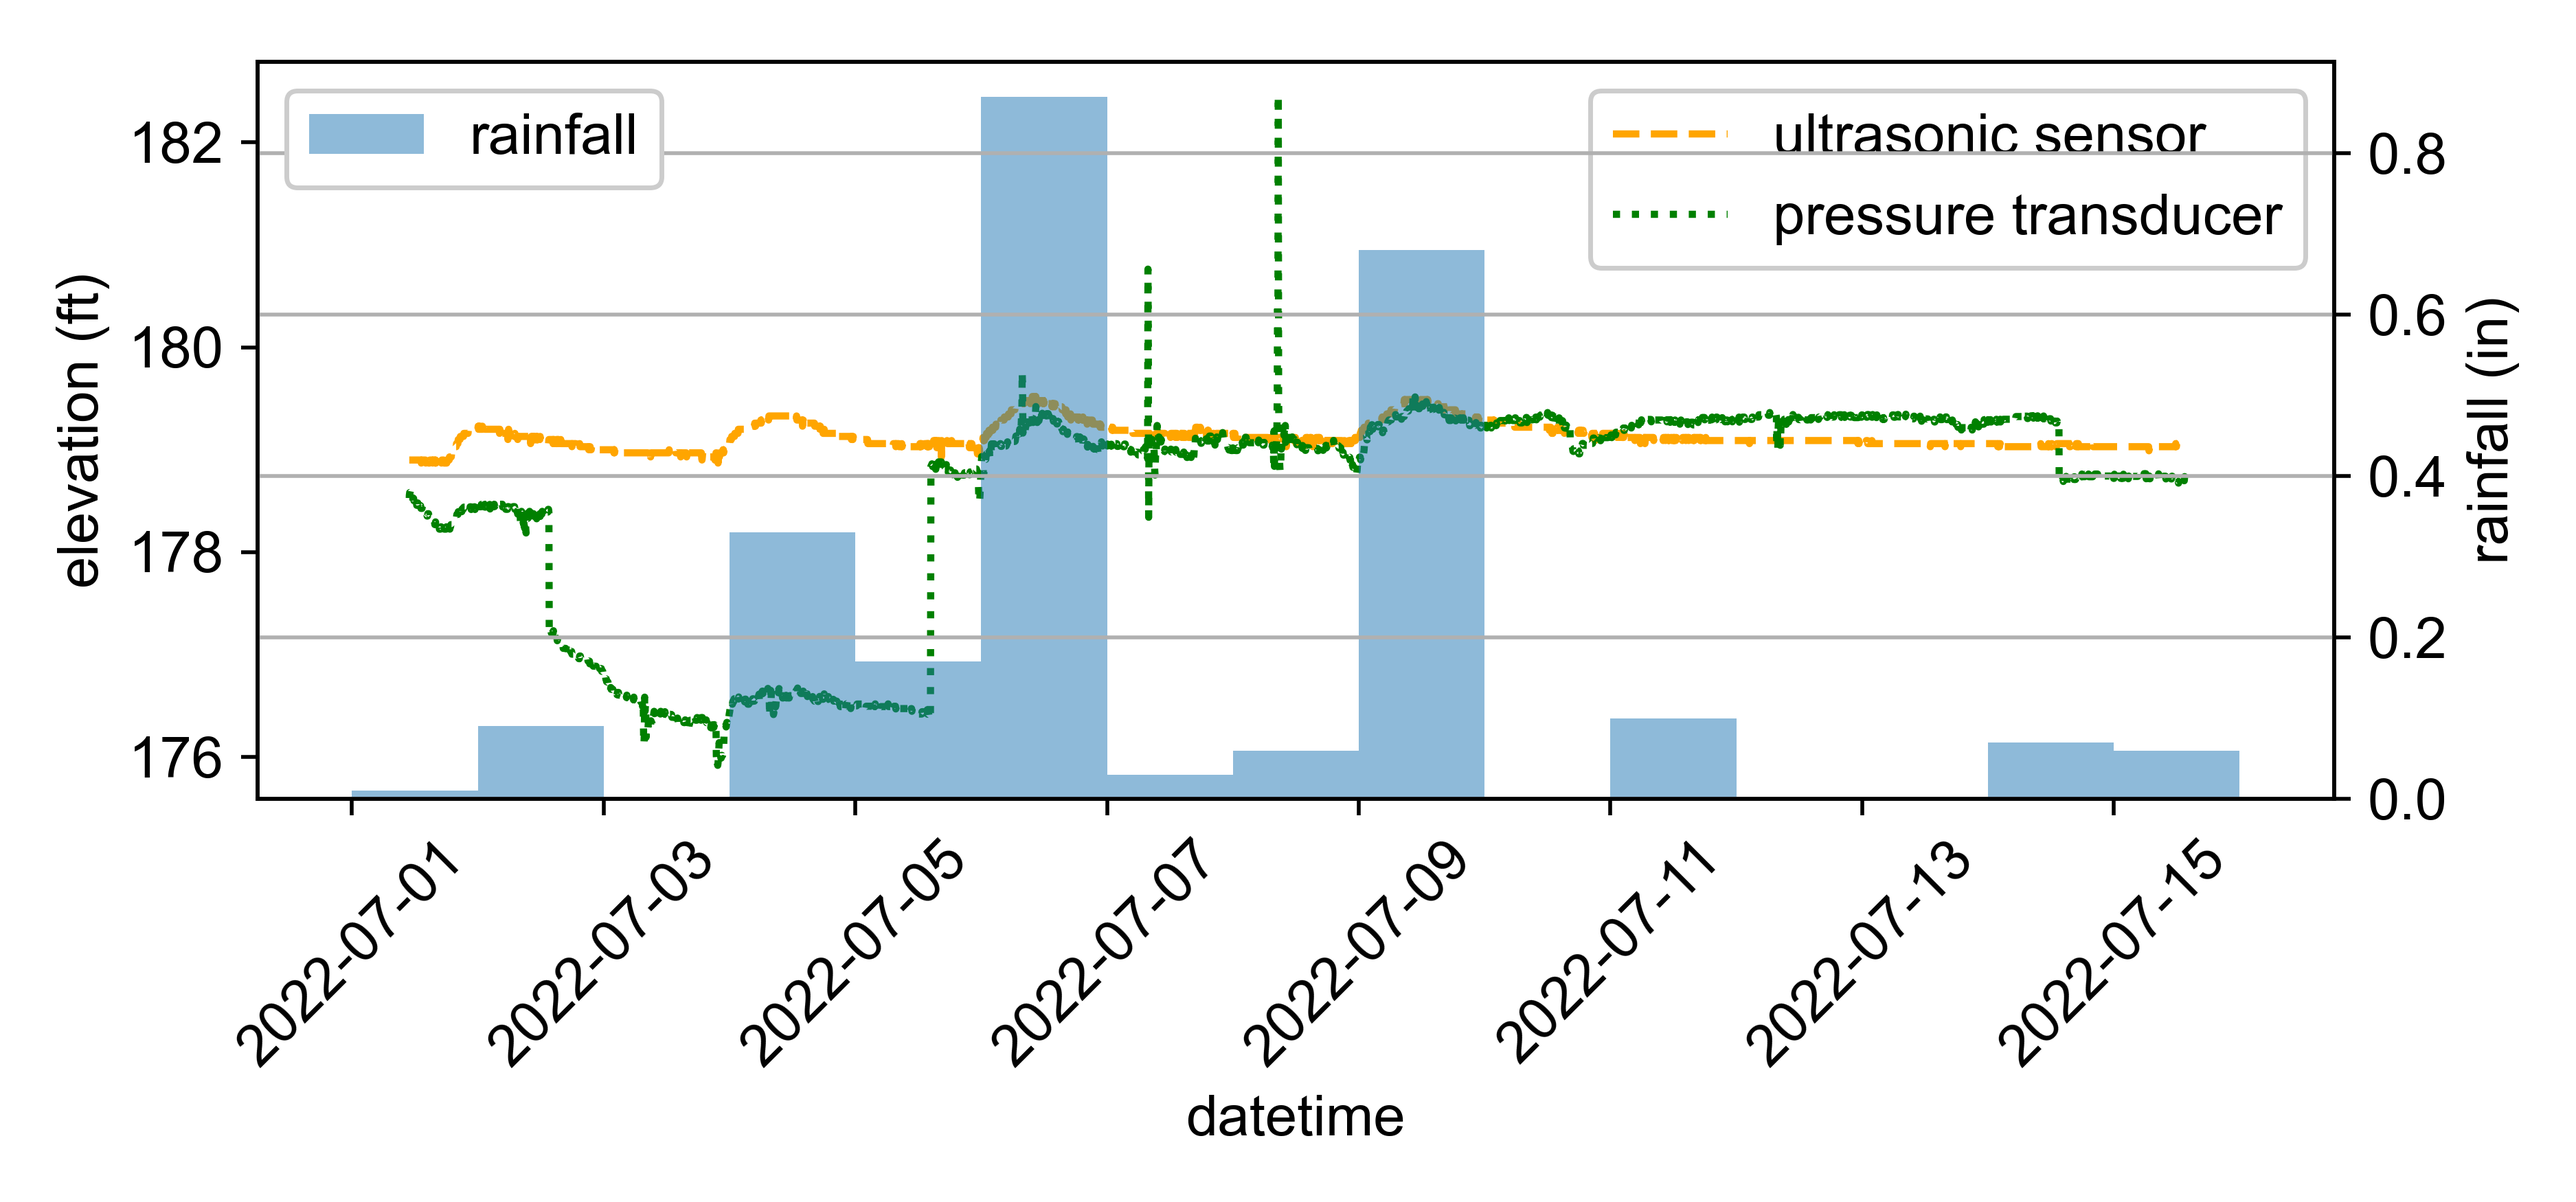
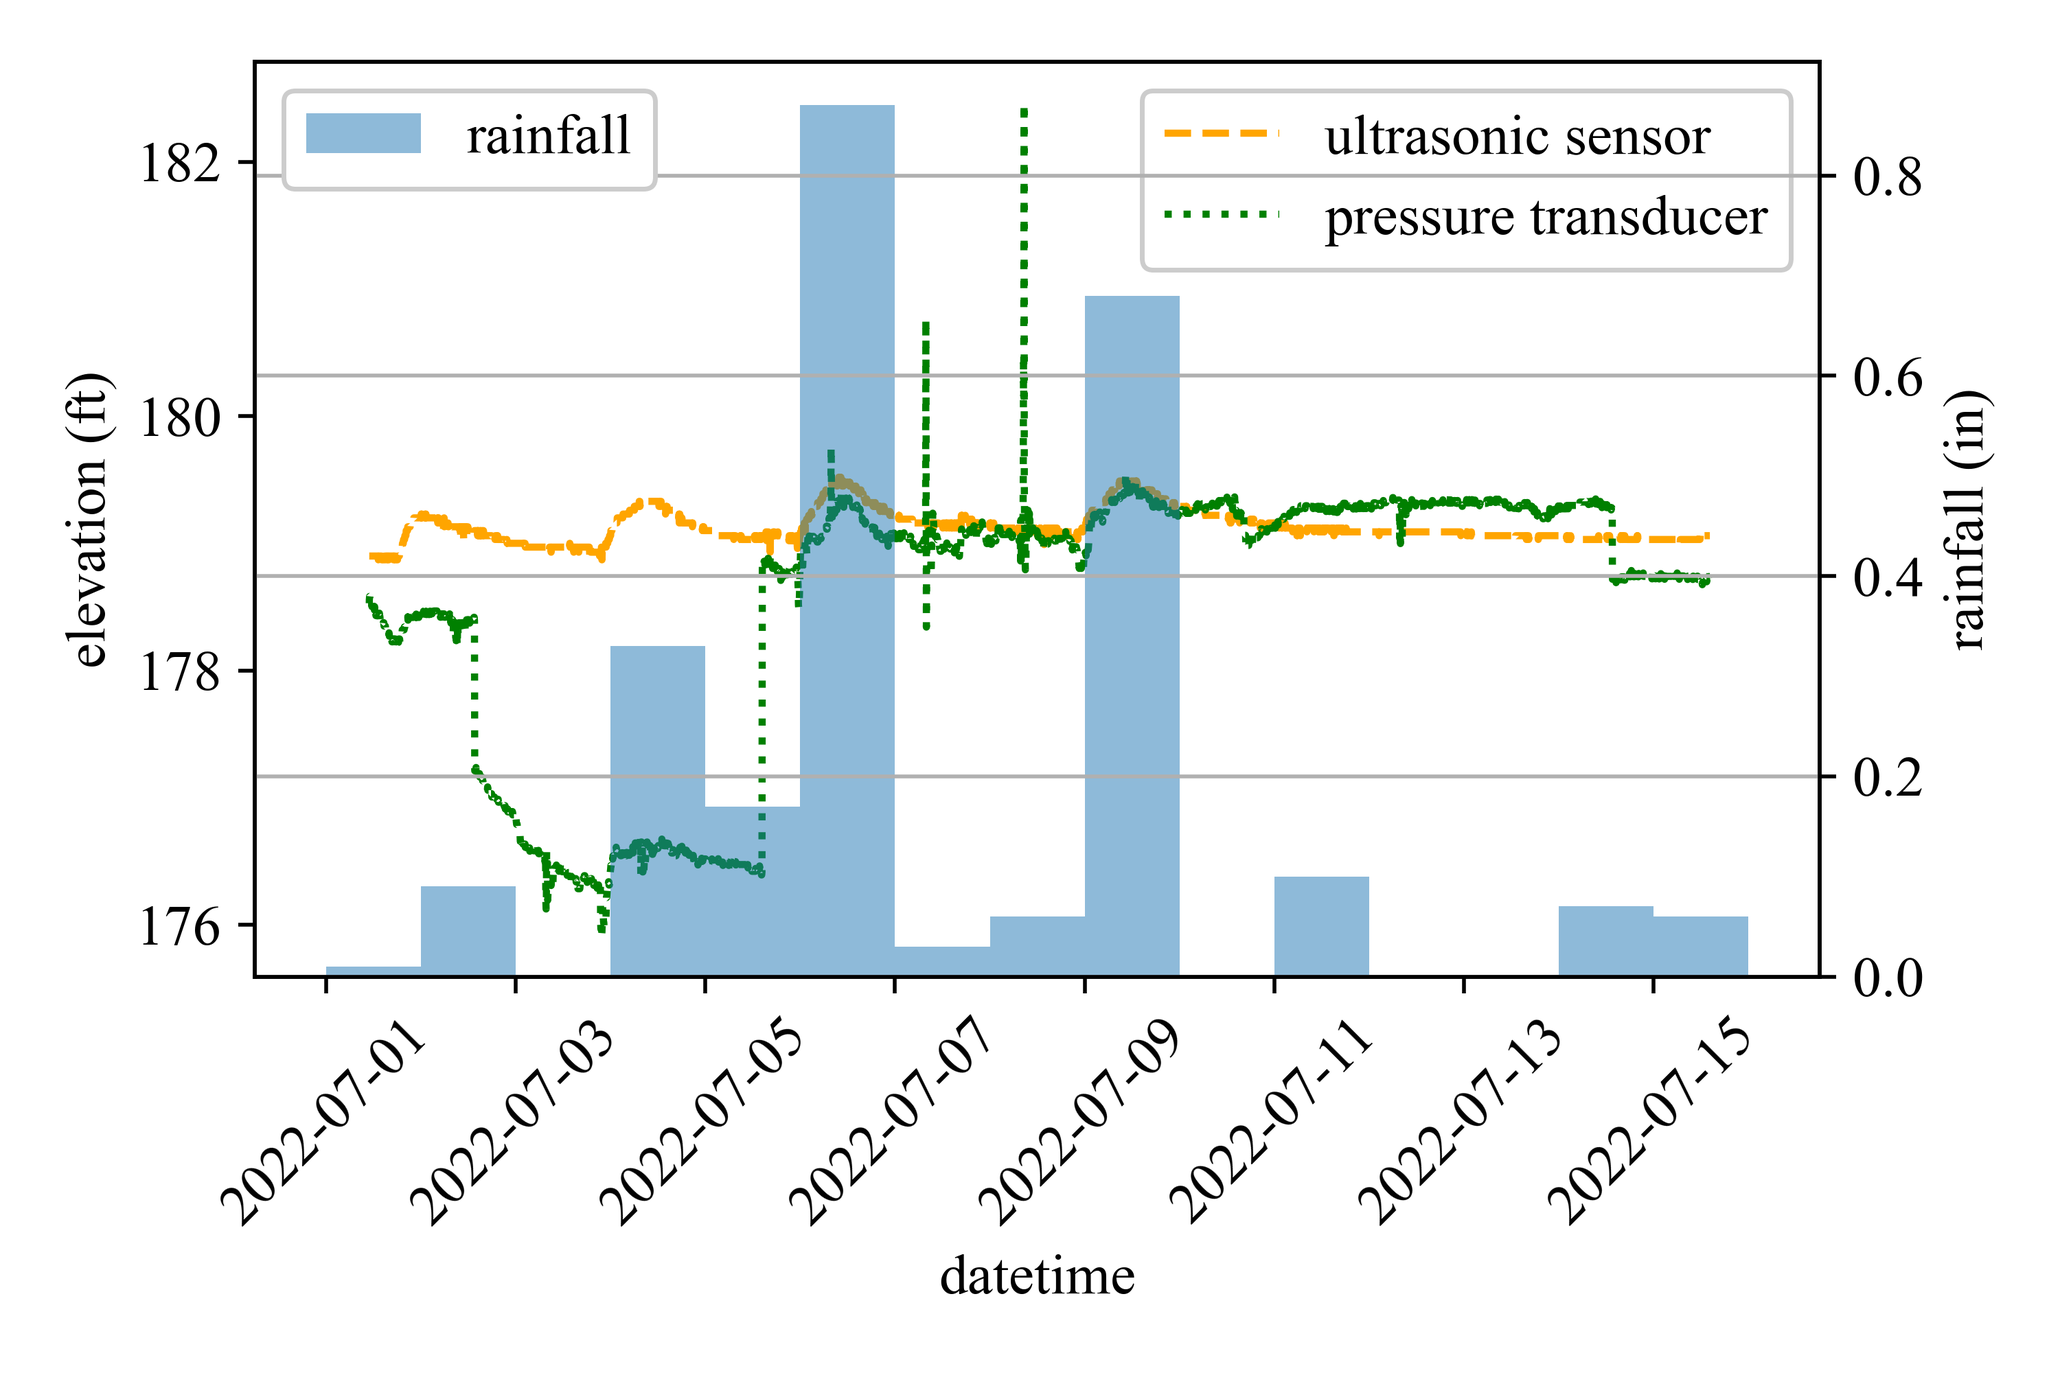
change font to times new roman

Changed region(s): [[0.0, 0.0309, 0.992, 0.9566], [0.558, 0.8023, 0.62, 0.8949], [0.496, 0.1234, 0.558, 0.1543]]

diff --git a/field tests/07_01-07_15/plot_data.py b/field tests/07_01-07_15/plot_data.py
@@ -14,7 +14,7 @@ import pylab as pl
 import numpy as np
 import sys
 np.set_printoptions(threshold=sys.maxsize)
-plt.rcParams["font.family"] = "Arial"
+plt.rcParams["font.family"] = "Times New Roman"
 mpl.rcParams.update({'font.size': 12})
 
 import IPython as IP
@@ -56,7 +56,7 @@ plt.grid(True)
 
 #%% rainfall subplot
 
-fig, a = plt.subplots(figsize=(7.5,3.5))
+fig, a = plt.subplots(figsize=(6,4))
 
 a.plot(df3['Datetime'], df3['stage'], '--', color="orange", label='ultrasonic sensor')
 a.plot(df2['Datetime'], df2['elevation'], ':', color = "green", label='pressure transducer')
